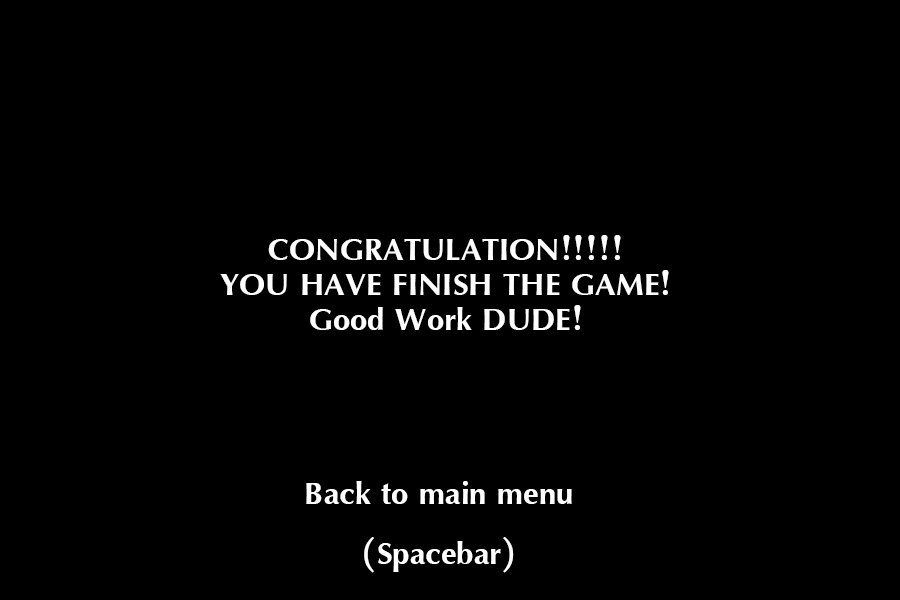
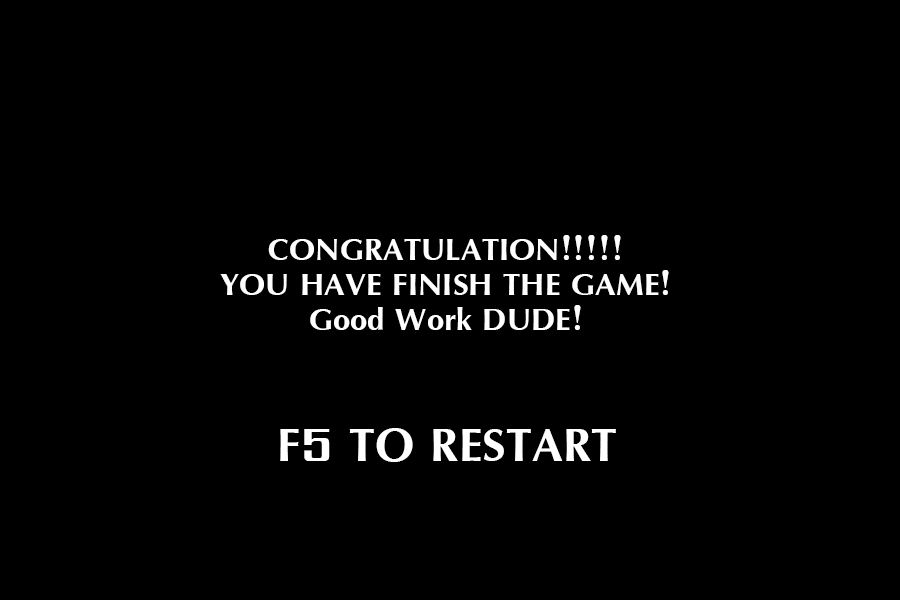
[UPDATE] FULLGAME

Changed region(s): [[0.3111, 0.69, 0.6844, 0.78], [0.4044, 0.9, 0.5911, 0.96], [0.3422, 0.81, 0.6533, 0.84]]

diff --git a/src/scenes/GameScene.js b/src/scenes/GameScene.js
@@ -1,75 +1,93 @@
-import { platform } from "os"
-
 var background
 var platforms
-let keyW, keyA, keyS, keyD
+let keyW,keyA,keyS,keyD
 let player
-let cloud
 let lightning
 let lightningGroup
 let thunder
 let thunderGroup
 let keySpacebar
-let hole1,hole2,hole3,hole4,hole5,hole6
 let trees
+let hole1,hole2,hole3,hole4,hole5,hole6
 let cout = 0;
 let HoleGroup
-var timer;
-var total = 0;
-class GameScene extends Phaser.Scene {
-    constructor() {
+
+
+class GameScene extends Phaser.Scene{
+
+    constructor(){
         super({
             key: 'GameScene'
         })
     }
 
-    preload() {
-        this.load.image('sky', 'images/sky.jpg');
-        this.load.image('platform', 'images/platform.png')
-        this.load.image('Player', '../../images/nong.png')
-        this.load.image('Lightning', '../../images/lightning.png')
-        this.load.image('Thunder', '../../images/thunder.png')
-        this.load.image('Hole', '../../images/Hole.png')
-        this.load.image('tree', '../../images/tree2.png')
+    preload(){
 
-    }
+            this.load.image('tree','images/tree2.png')
+            this.load.image('sky','images/sky.jpg')
+            this.load.image('platform','images/platform.png')
+            this.load.image('player','../../images/nong.png',{frameWidth :384 ,frameHeight:216})
+            this.load.image('Lightning','../../images/lightning.png')
+            this.load.image('Thunder','../../images/Thunder.png')
+            this.load.audio("gametheme",["../../images/gametheme.mp3",])
+            this.load.audio("grownplant","../../images/grownplant.mp3")
+            this.load.audio("deadplant","../../images/deadplant.mp3")
+            this.load.audio("stepsound","../../images/stepsound.mp3")
+            this.load.audio("thundersound","../../images/thunder.ogg")
+            this.load.image('Hole', '../../images/Hole.png')
+}
+    
+    create(){
+        this.gametheme = this.sound.add("gametheme");
+        this.grownplant = this.sound.add("grownplant")
+        this.deadplant = this.sound.add("deadplant")
+        this.stepsound = this.sound.add("stepsound")
+        this.thundersound = this.sound.add("thundersound")
+        var musicConfig = {
+            mute : false,
+            volume : 1,
+            rate : 1,
+            detune : 0,
+            loop : true,
+            delay : 0
+        }
+        this.gametheme.play(musicConfig);
 
-    create() {
-        platforms = this.physics.add.image(0, 0, 'platform').setOrigin(0.5).setScale(1).setSize(1800, 250).setCollideWorldBounds(true)
-        player = this.physics.add.image(10, 216, 'Player').setScale(0.15).setCollideWorldBounds(true).setDepth(5)
-        background = this.add.image(0, 0, 'sky').setOrigin(0).setScale(1)
 
-        thunder = this.add.image(650, -50, 'Thunder').setOrigin(0).setScale(0.5)
-        thunder = this.add.image(450, -50, 'Thunder').setOrigin(0).setScale(0.5)
-        thunder = this.add.image(10, -50, 'Thunder').setOrigin(0).setScale(0.5)
-        thunder = this.add.image(250, -50, 'Thunder').setOrigin(0).setScale(0.5)
-
-        
+        platforms = this.physics.add.image(0,0,'platform').setOrigin(0.5).setScale(1).setSize(1800,250).setCollideWorldBounds(true);
+        background = this.add.image(0,0,'sky').setOrigin(0).setScale(1)
+        player = this.physics.add.image(384,400,'player').setSize(500,600).setScale(0.2).setCollideWorldBounds(true);
         keyA = this.input.keyboard.addKey(Phaser.Input.Keyboard.KeyCodes.A);
         keyW = this.input.keyboard.addKey(Phaser.Input.Keyboard.KeyCodes.W);
         keyS = this.input.keyboard.addKey(Phaser.Input.Keyboard.KeyCodes.S);
         keyD = this.input.keyboard.addKey(Phaser.Input.Keyboard.KeyCodes.D);
-
+        thunder = this.add.image(250,-50,'Thunder').setOrigin(0).setScale(0.5)
+        thunder = this.add.image(10,-50,'Thunder').setOrigin(0).setScale(0.5)
+        thunder = this.add.image(450,-50,'Thunder').setOrigin(0).setScale(0.5)
+        thunder = this.add.image(650,-50,'Thunder').setOrigin(0).setScale(0.5)
+        this.physics.add.collider(player,platforms);
         trees = this.physics.add.group();
         keySpacebar = this.input.keyboard.addKey(Phaser.Input.Keyboard.KeyCodes.SPACE);
-
-
-        this.physics.add.collider(player, platforms);
-        lightningGroup = this.physics.add.group();
         
-        this.physics.add.collider(player, lightningGroup, function () { console.log('test') })
+        this.physics.add.collider(player,platforms);
+
+        lightningGroup = this.physics.add.group();
+        this.physics.add.collider(player,lightningGroup,function(){console.log('test')})
         event = this.time.addEvent({
-            delay: 3000,
-            callback: function () {
-                lightning = this.physics.add.sprite(Phaser.Math.Between(0, 900), 20, 'Lightning').setScale(0.1)
+            delay : 3000,
+            callback : function(){
+                lightning = this.physics.add.sprite(Phaser.Math.Between(0,900),20,'Lightning').setScale(0.1)
                 lightningGroup.add(lightning)
+                this.thundersound.play()
                 lightningGroup.setVelocityY(200)
             },
-            callbackScope: this,
-            loop: true,
-            pause: true,
-            repeat: 0,
+            callbackScope : this,
+            loop : true,
+            pause : true, 
+            repeat : 0,
         })
+
+        this.physics.add.collider(lightningGroup, trees, this.hisplatform)
 
         HoleGroup = this.physics.add.group()
         this.physics.add.collider(player, HoleGroup, function () { console.log('test') })
@@ -93,64 +111,76 @@ class GameScene extends Phaser.Scene {
             pause: false,
             repeat: 0
         })
-  
+
     }
-       
+    hisplatform(lightningGroup, trees) {
+        lightningGroup.destroy()
+        trees.destroy()
+    }
+          
+    update(){
+        if (cout == 150){
+            this.scene.start('GameOverScene')
+        }
+        if (keyA.isDown) {
+            player.setVelocityX(-400)
+            this.stepsound.play()
 
+        } else if (keyD.isDown) {
+            player.setVelocityX(400)
+            this.stepsound.play()
 
-
-    update() {
-           if (cout == 150){
-               this.scene.start('GameOverScene')
+        } else  {
+            player.setVelocityX(0)
+        }
+        if (keyW.isDown) {
+            player.setVelocityY(-400)
+            this.stepsound.play()
+        }else if (keyS.isDown) {
+            player.setVelocityY(400)
+            this.stepsound.play()
+        }else  {
+            player.setVelocityY(0)
+            
+        }        
+         
+       if(keySpacebar.isDown){
+           this.TREE()
+           cout ++;
+           for(let i = 0; i< trees.getLength(); i++){
+               let tre = trees.getChildren()[i]
+               if(tre.x < -50 ){
+                   tre.destroy(true)
+                   this.deadplant.play();
+               }
            }
-        {
-            if (keyA.isDown) {
-                player.setVelocityX(-400)
+       }
 
-            } else if (keyD.isDown) {
-                player.setVelocityX(400)
-
-            } else if (keyS.isDown) {
-                player.setVelocityY(400)
-            } else {
-                player.setVelocity(0, 0)
-            }
-            if (keyW.isDown) {
-                player.setVelocityY(-400)
-            } if (keySpacebar.isDown) {
-                this.TREE()
-                cout ++;
-                for (let i = 0; i < trees.getLength(); i++) {
-                    let tre = trees.getChildren()[i]
-                    if (tre.x < -50) {
-                        tre.destroy(true)
-                    }
-                }
-            }
-
-        }
-        for (let i = 0; i < lightningGroup.getLength(); i++) {
-            let thun = lightningGroup.getChildren()[i]
-            if (lightning.y <= -30) {
-                lightning.destroy(true)
-            }
-        }
-
-        
-    }
-    TREE() {
-        event = this.time.addEvent({
-
-            callback: function () {
-                let tree = this.physics.add.image(player.x + 60, player.y - 80,'tree')
-                tree.setScale(1).setSize(0.1)
-                trees.add(tree)
-            },
-            callbackScope: this,
-            loop: false,
-            pause: false,
-
-        })
-    }
+   for(let i = 0;i < lightningGroup.getLength();i++){
+       let thun = lightningGroup.getChildren()[i]
+       if(lightning.y <= -50){
+           lightning.destroy(true)
+       }
+   }  
+         
 }
+
+TREE() 
+    {
+       event = this.time.addEvent({
+           
+           callback: function() {
+               let tree = this.physics.add.image(player.x + 60, player.y - 50, 'tree')
+               tree.setScale(1).setSize(100,200).setOff
+               trees.add(tree)
+               this.grownplant.play();
+           },
+           callbackScope: this,
+           loop:false,
+           pause: false  
+       })
+   }
+
+}
+
 export default GameScene

diff --git a/src/scenes/GameOverScene.js b/src/scenes/GameOverScene.js
@@ -14,7 +14,6 @@ class GameOverScene extends Phaser.Scene{
     
     create(){
         this.add.image(0,0,'GameOverScene').setOrigin(0).setScale(1);
-        this.input.on('pointerdown',() => this.scene.start('PreloadScene'))
     }
 
     update(){
